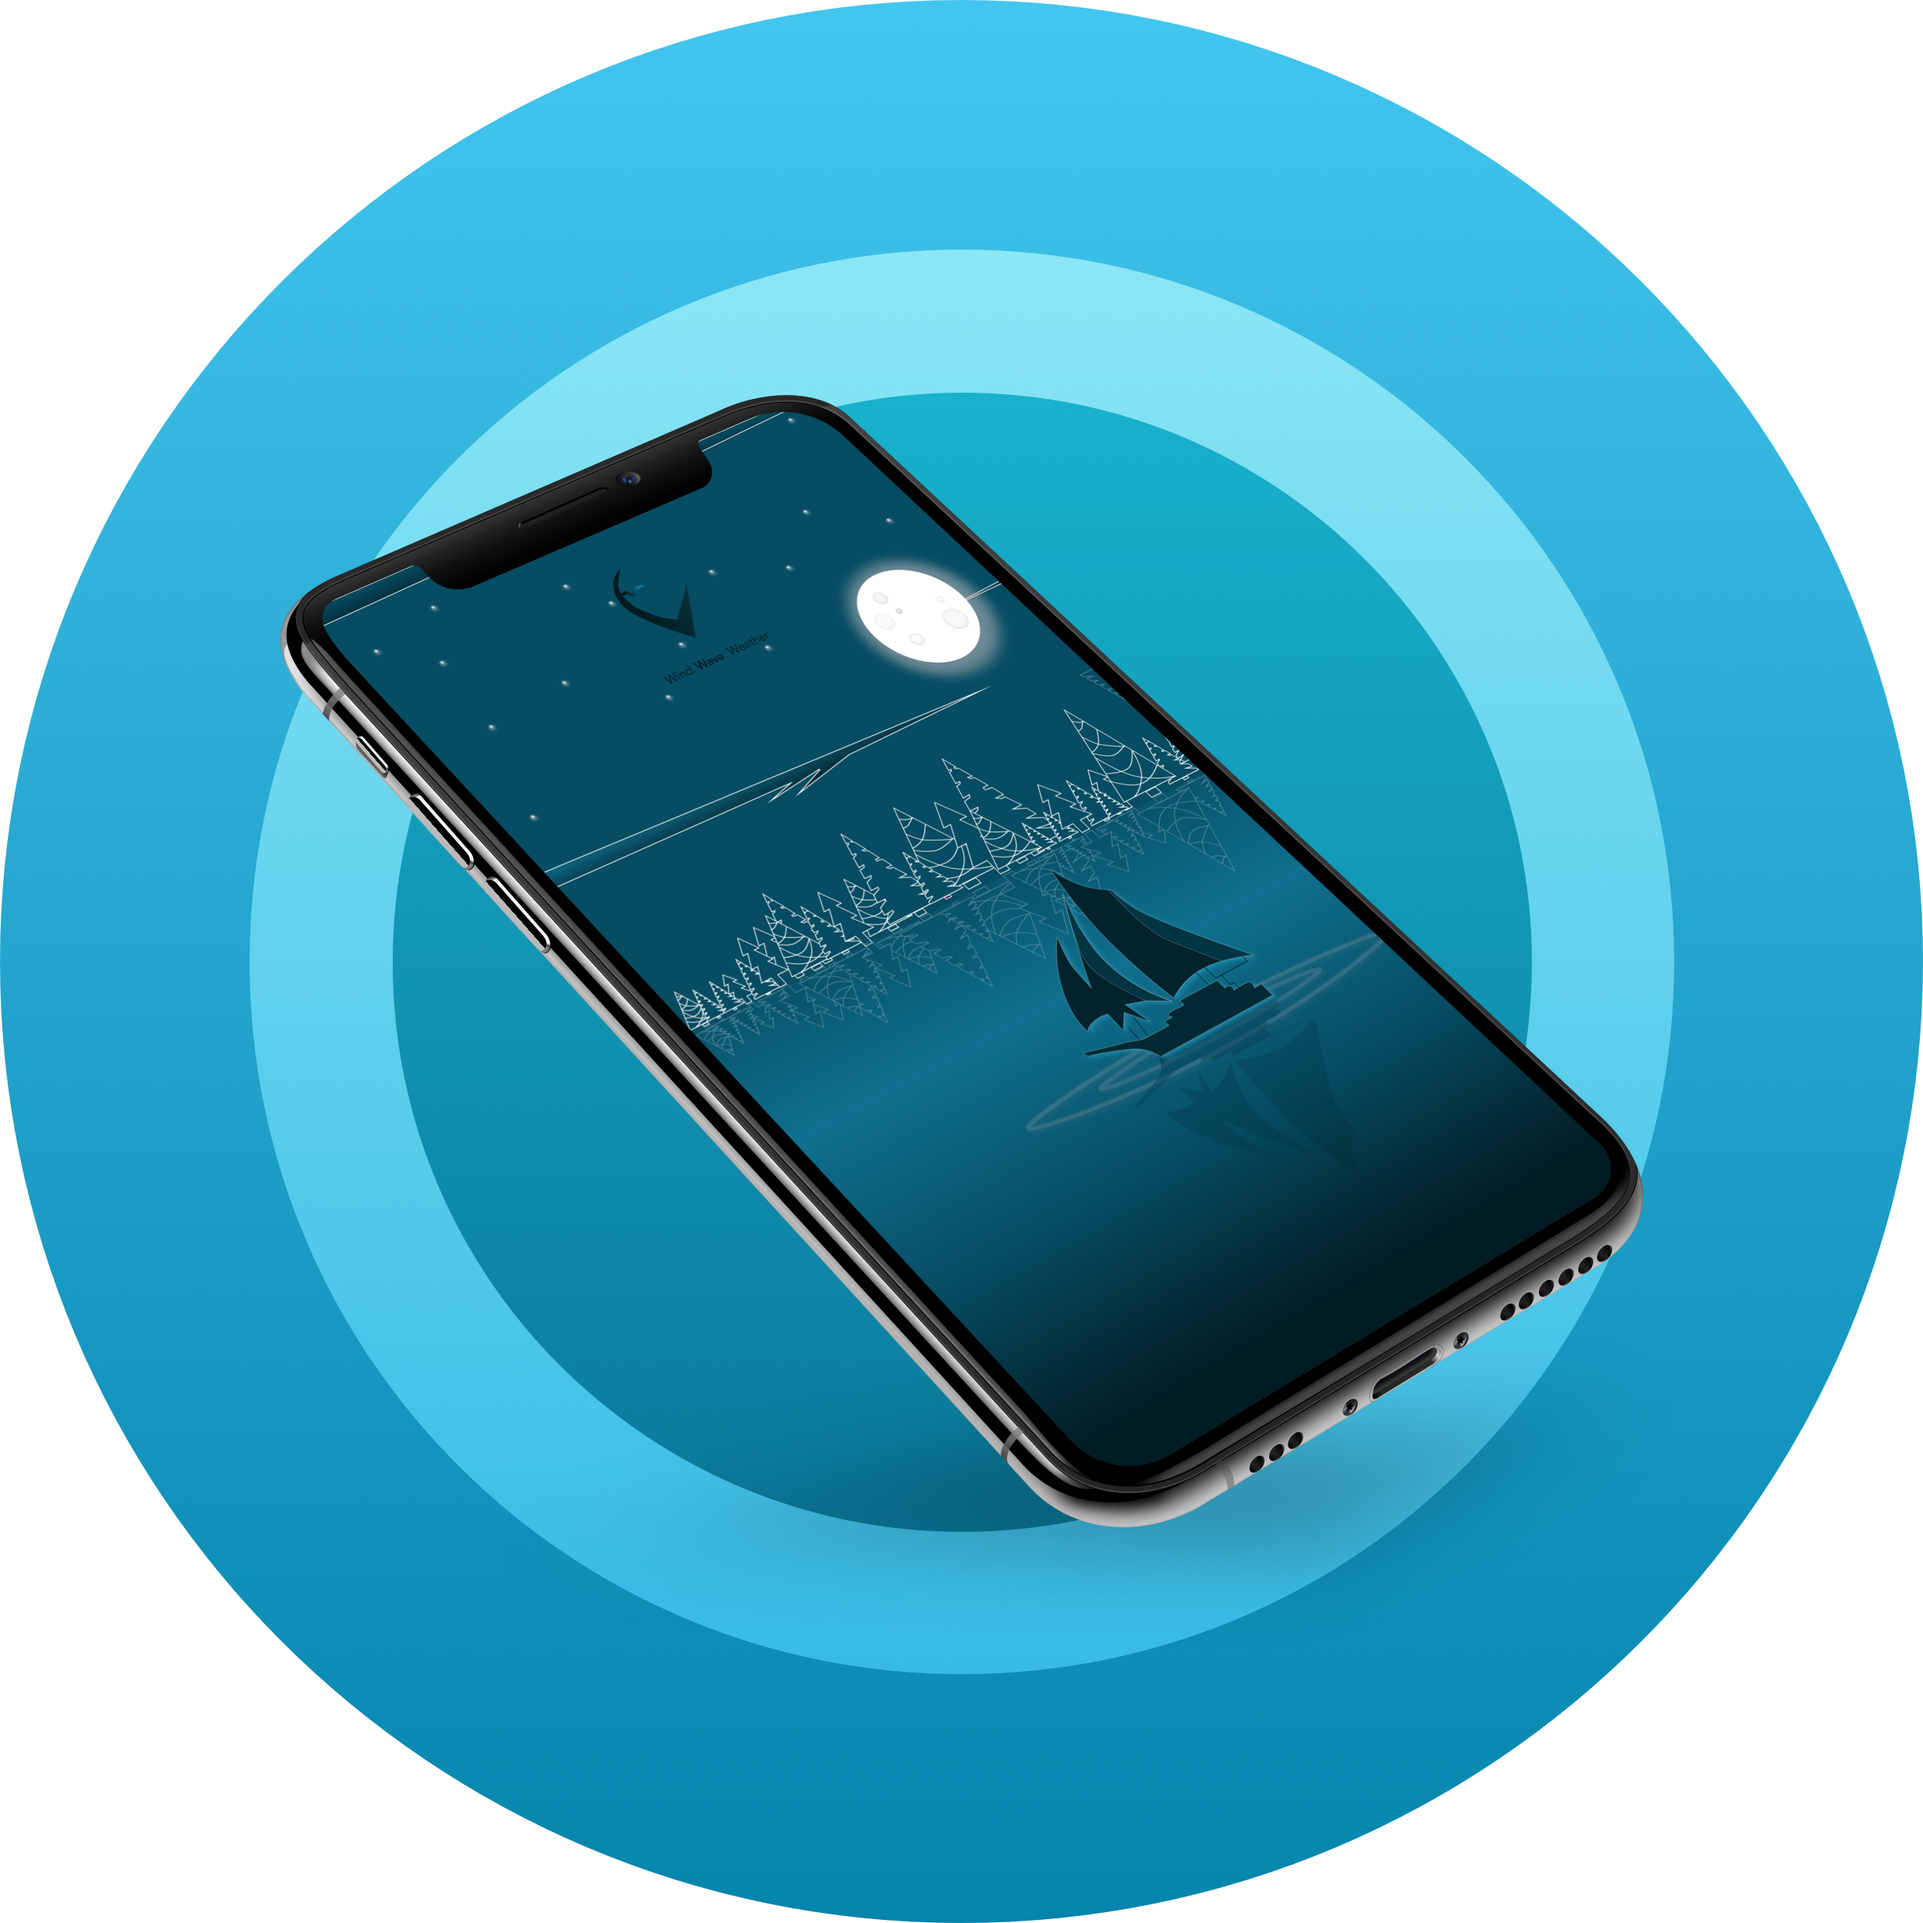
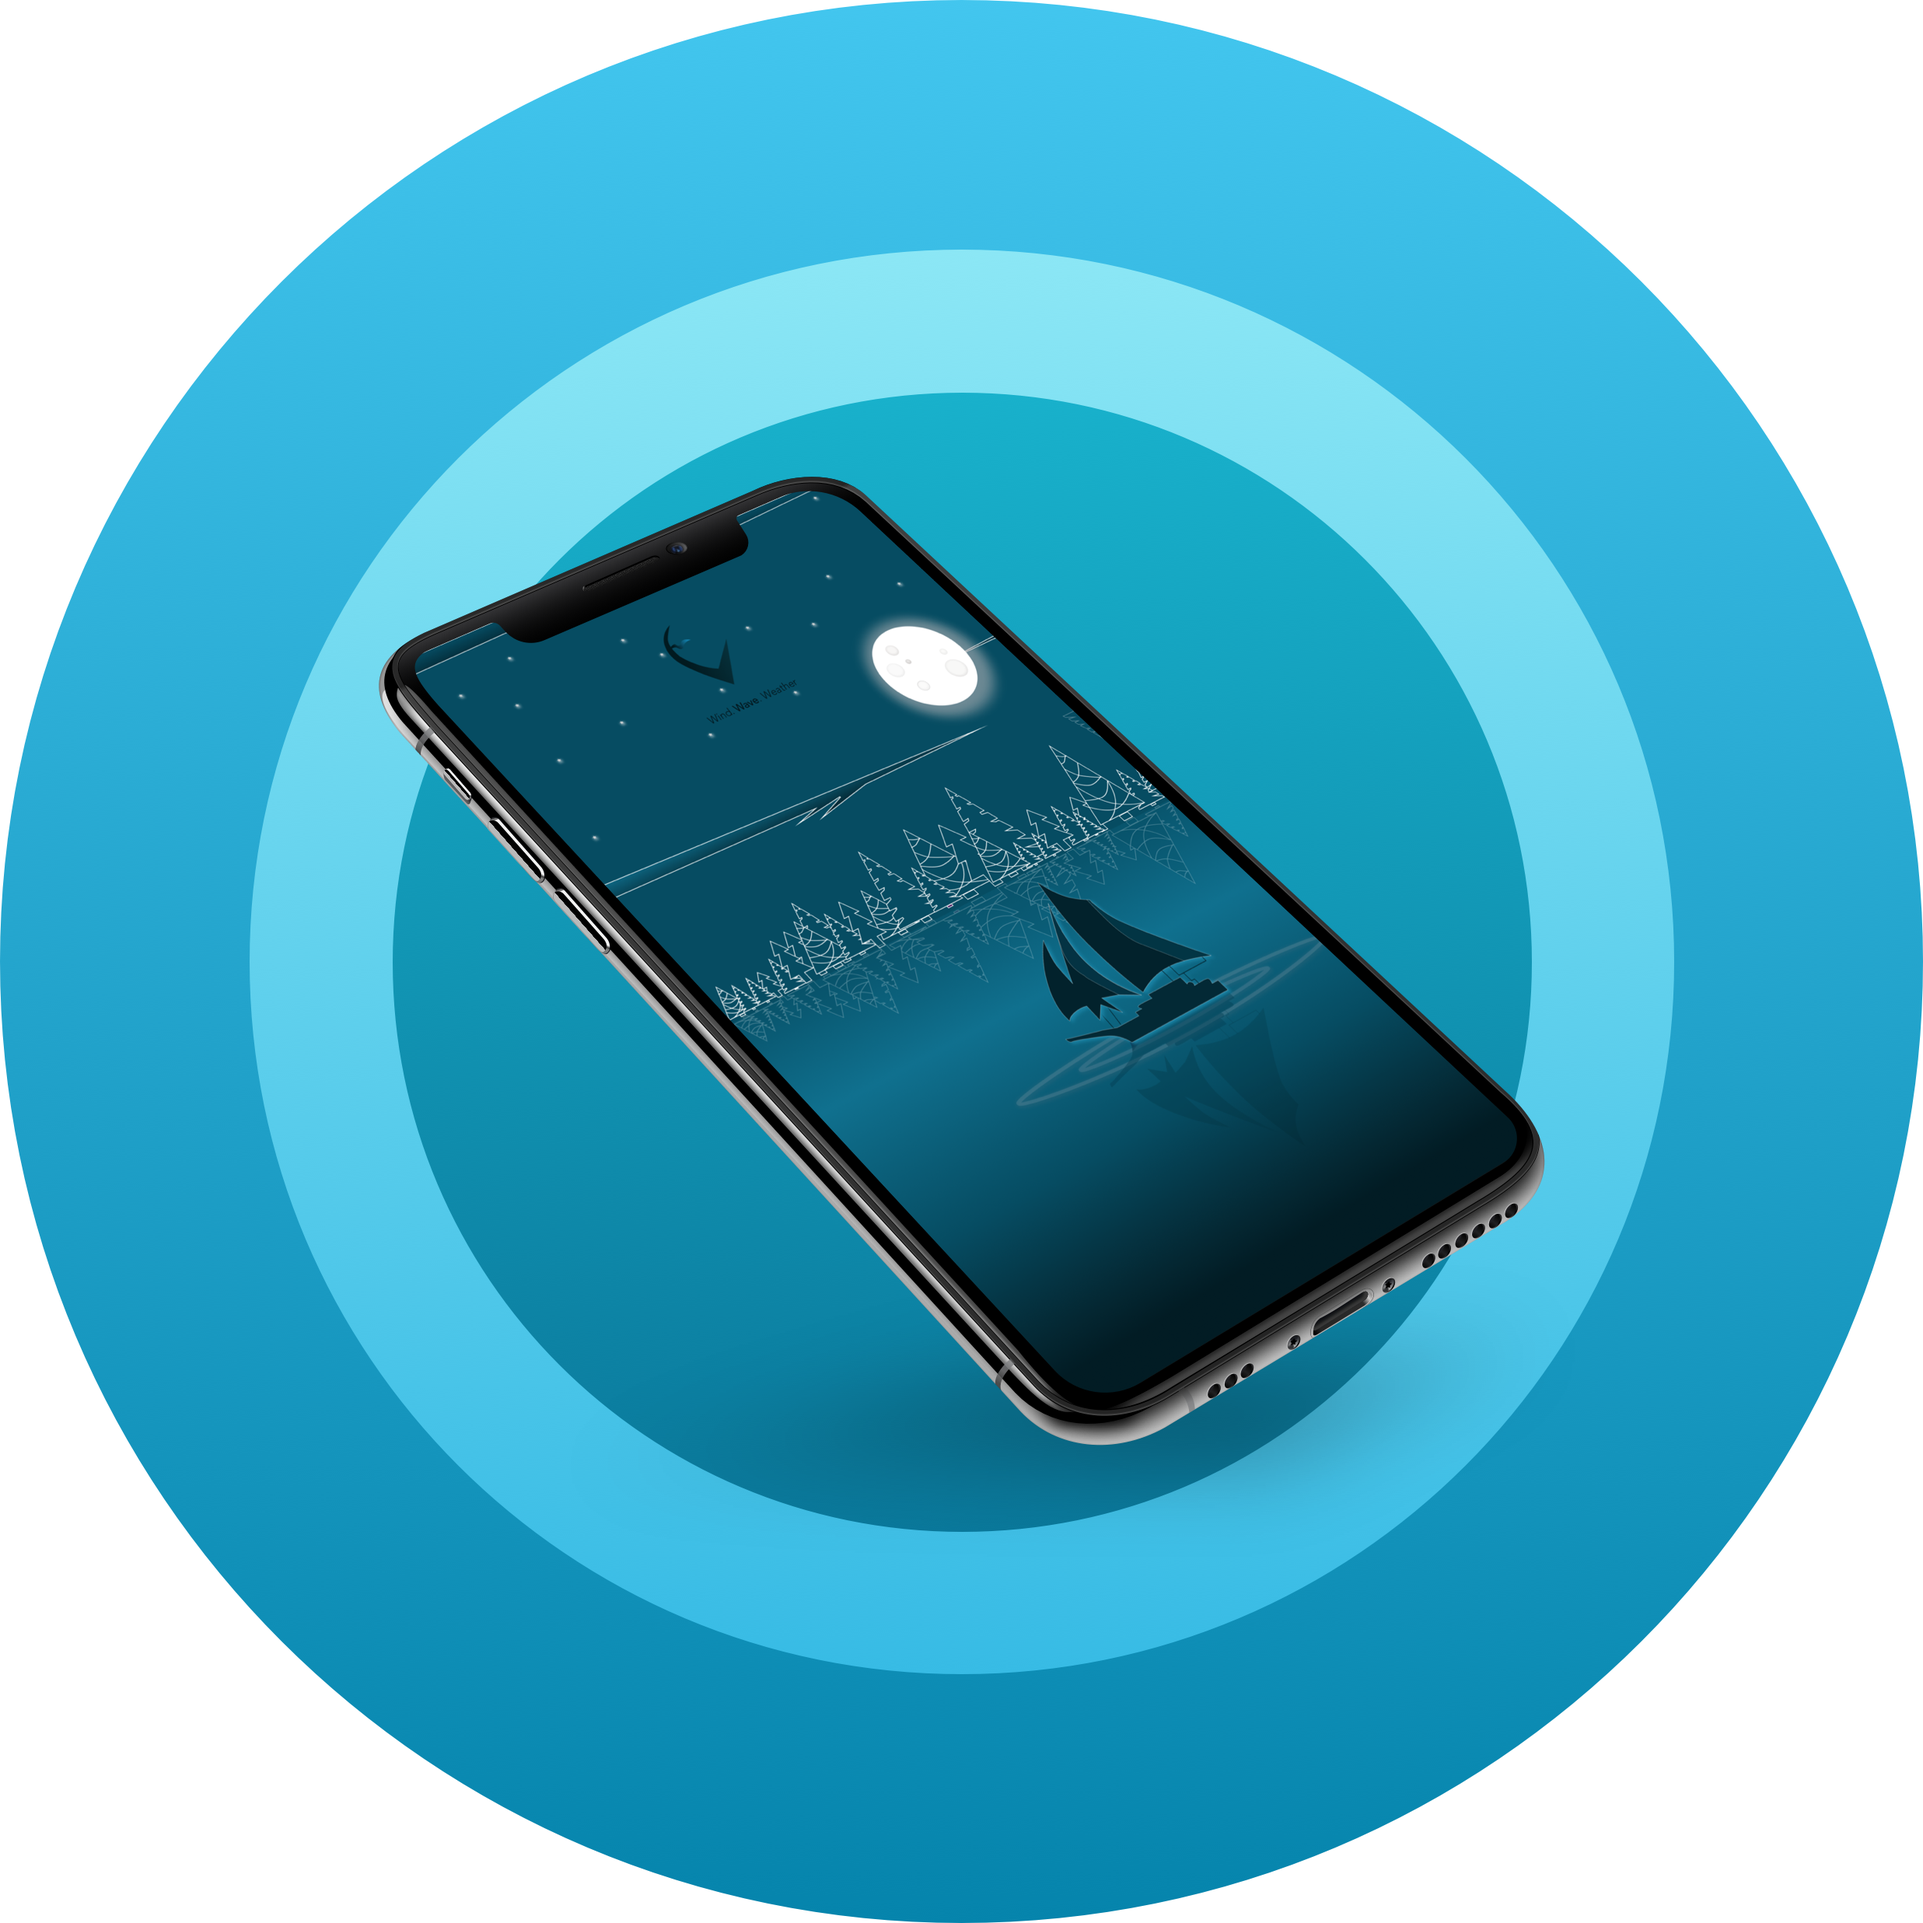
Updated mobile css for work page

Changed region(s): [[0.1245, 0.1868, 0.8718, 0.8407]]

diff --git a/css/style.css b/css/style.css
@@ -10,7 +10,7 @@ body {
   
     background-color:#02305E;
     font-family: 'Montserrat', sans-serif;
-    font-size: 16px; /* Sets the font size to 16px */
+    font-size: 14px; /* Sets the font size to 16px */
     font-weight: 300; /* Sets the font weight to 300 */
     line-height: 1.6; /* Sets the line-height to 1.6 * the font-size */
     color: #fff;
@@ -403,7 +403,9 @@ body.work{
     background-color: #EB560C;
 }
 
-
+#work1_fitted.wrapper{
+    margin-top:2rem;
+}
 #work1_fitted{
     height:auto;
     padding-bottom:5rem;
@@ -460,16 +462,14 @@ body.work{
     display: flex;
     flex-direction: column;
     justify-content: center;
-    width: 60%;
-    height: auto;
+    width:50%;
+   
   
 }
 
 .work_image img{
-    padding-top:2rem;
-    max-width:90%;
    
-    align-self:flex-end;
+   align-self:flex-end;
   
 }
 
@@ -747,7 +747,7 @@ body.about{
   
     }
     img{
-        padding-top:2rem;
+        /*padding-top:2rem;*/
     }
     #process img{
         margin-top:-3rem;
@@ -804,6 +804,9 @@ body.about{
         width: 600px;
         height: 420px;
     }
+    #work1_fitted.wrapper {
+     margin-top: -4rem;
+}
 }
 
 
@@ -932,7 +935,29 @@ body.about{
 
    .describe h1{
     font-size:2.5em;
+   }
+   #work1_fitted .container,#work1_vela .container{
+    display:block;
    }   
+
+  
+   #work1_fitted.wrapper{
+    margin-top:-8rem;
+   }
+   #work1_fitted{
+    padding-bottom:2rem;
+   }
+   #work1_fitted .describe, #work1_vela .describe {
+    padding-right: 0;
+    width:auto;}
+
+    .work_image {
+        padding-top:2rem;
+     display: block; 
+    
+     width: auto; 
+}
+
 }
 
 @media screen and (max-width: 320px) {

diff --git a/fitted.html b/fitted.html
@@ -65,7 +65,10 @@
                     </div>     
 
                     <div class="work_image">
-                        <img src="img/fitted/fitted_work.png" alt="Fitted" ></a>
+                        <!--<picture>
+                            <source srcset="img/fitted/fitted_work_small.png" media="(max-width:1024px)">-->
+                            <img src="img/fitted/fitted_work.png" alt="Parvathy">
+                        <!--</picture>-->
                     </div><!--Image-->
                 </div>                 
             </section>
